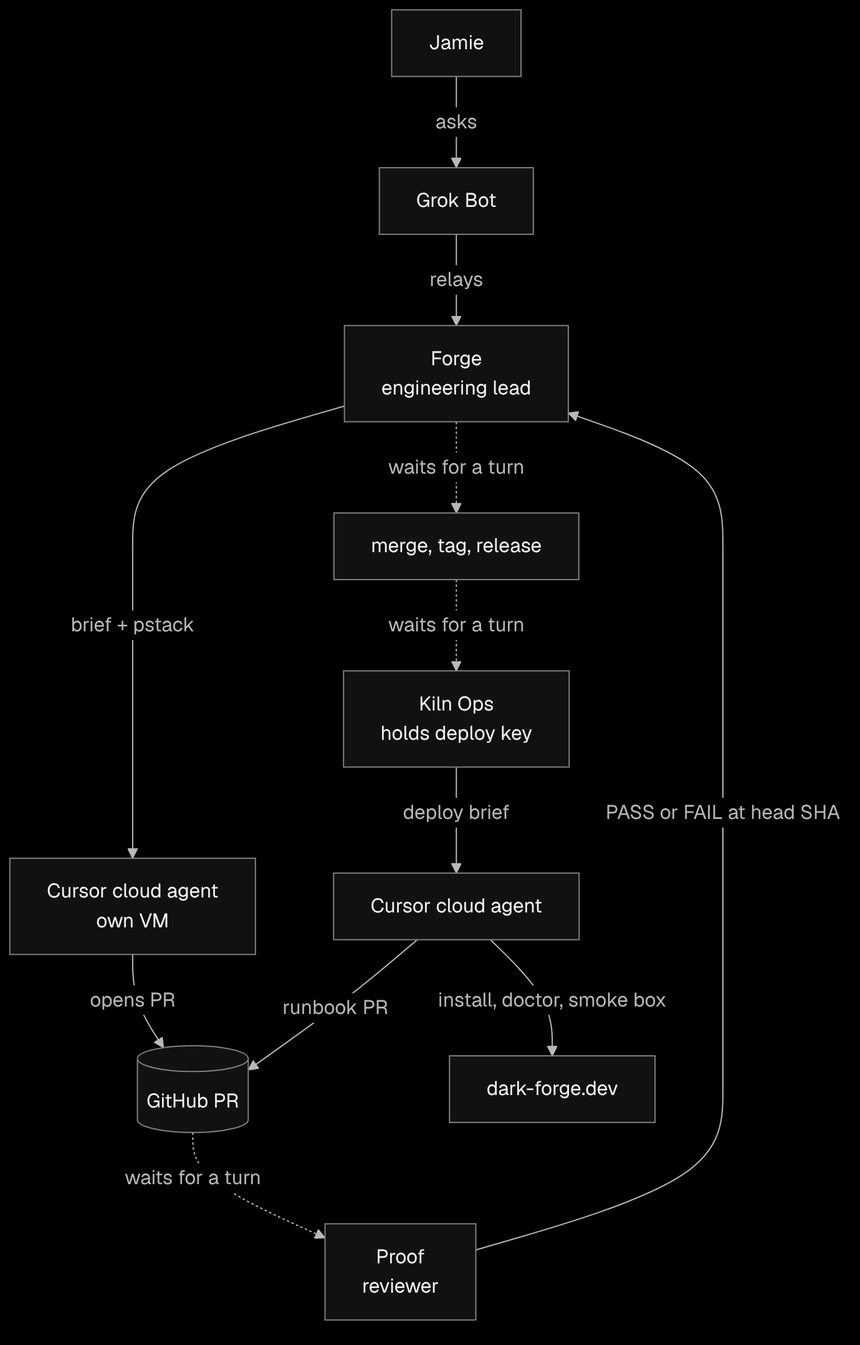
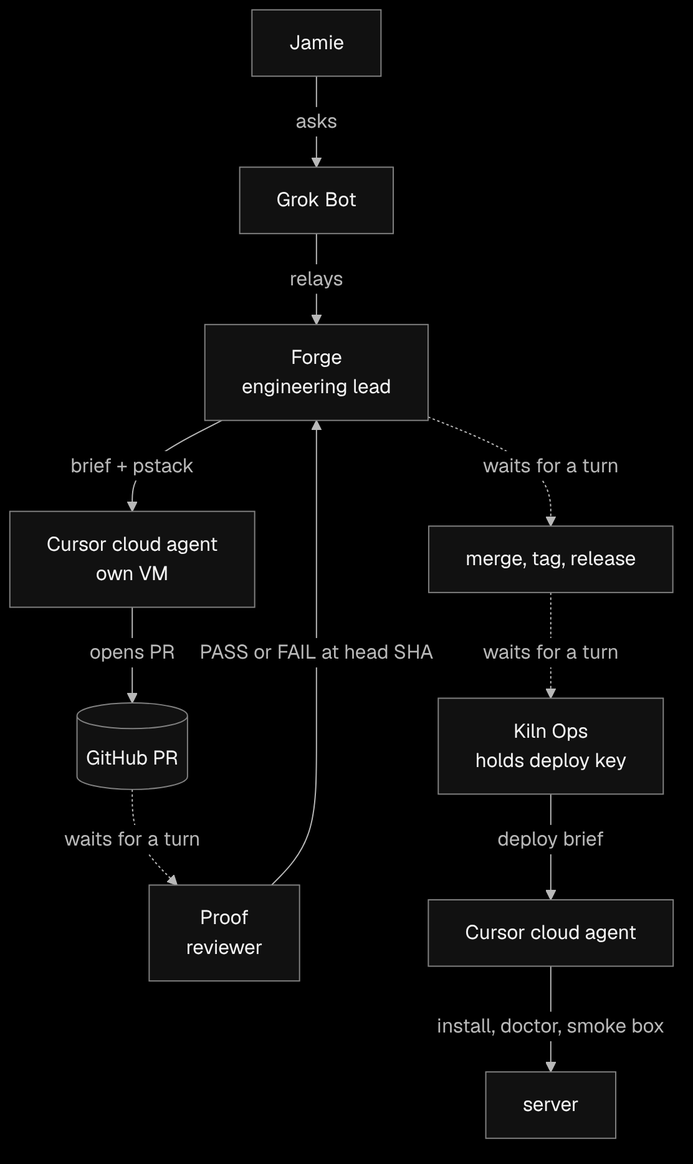
Rewrite the kiln post around principles, with data to 22 October

diff --git a/content/posts/grok-bot-agents-prs.md b/content/posts/grok-bot-agents-prs.md
@@ -1,102 +1,74 @@
 +++
-title = "100 merged PRs in two days, and why none of that was the slow part"
+title = "137 merged PRs in three days, and why none of that was the slow part"
 date = 2026-10-21
+updated = 2026-10-22
 draft = false
-description = "How I used Grok Bot and Cursor cloud agents to ship kiln, why getting changes to production still took all day, and what I changed so CI does the reviewing and the deploying."
+description = "What I learned shipping kiln with Grok Bot and Cursor cloud agents, written up as the principles I now work by: CI does the reviewing, checks test the real path, undoing is cheap, and the last bottleneck is the queue and me."
 tags = ["ai", "engineering", "developer-tools", "kiln"]
 +++
 
-Between lunchtime on 19 October and 14:45 on 21 October, cloud agents opened 108 pull requests on [kiln](https://github.com/Jabbslad/kiln). 100 of them merged. I didn't write a line of that code, and I didn't review most of it either.
+Over three days, cloud agents opened 149 pull requests on [kiln](https://github.com/Jabbslad/kiln), and 137 of them merged. I didn't write a line of that code, and I didn't review most of it either.
 
-*Updated 21 October, 15:00 Canary time. I first wrote this with data up to 01:43 that morning. The numbers, charts and timeline now run to 14:45, and the section [What happened next](#what-happened-next) covers the 13 hours in between.*
+The writing was never the slow part. What was slow, and what kept going wrong, sat between "merged" and "working on the server". I first wrote this post as a timeline. It kept growing, so I've rewritten it around the principles I took away. Each one comes with the moment that taught it to me.
 
-That sounds like the good news. The catch is that it still took me most of 20 October to get one release onto my server, and the reason wasn't the code. This post is about what was slow and what I changed. By the afternoon of 21 October, a merged PR was live on the server about 10 minutes later, and nobody pushed a tag.
+*Rewritten 22 October 2026. Numbers are as of 11:00 Canary time that day.*
 
-Much of this setup follows how [poteto](https://x.com/poteto) (Lauren Tan) works with agents. Most of the good ideas below started as one of her posts, and I've embedded the ones that changed my setup the most.
+Much of this follows how [poteto](https://x.com/poteto) (Lauren Tan) works with agents. Several of the principles below started as one of her posts, and I've embedded the ones that changed my setup the most.
 
 ## The setup
 
-Kiln is a small runtime for Firecracker microVMs. You ask it for a "box", it boots one, and you get SSH, a dashboard, and a sign-in that goes through dark-forge.dev. It runs on a single bare-metal host.
+Kiln is a small runtime for Firecracker microVMs. You ask it for a "box", it boots one, and you get SSH, a dashboard and a sign-in. It runs on a single bare-metal server.
 
-I drive it from Grok Bot, a desktop assistant app where I can run several bots side by side. At first I just asked Grok Bot to kick off coding jobs directly. That worked, but my main chat filled up with build logs and PR links.
+I drive it from Grok Bot, a desktop assistant app where I can run several bots side by side. There's a small team of them:
 
-So I made Forge. Forge is an engineering lead that never writes code. It turns my asks into Cursor cloud agent jobs. Each agent runs in its own VM, does the work, and opens a PR. Forge then follows the PR through to merge and release.
+- **Forge** is an engineering lead that never writes code. It turns my asks into Cursor cloud agent jobs. Each agent runs in its own VM, does the work and opens a PR.
+- **Kiln Ops** deploys. It's the only bot that holds the deploy key.
+- **Chief** is my chief of staff. I talk to Chief, and Chief talks to Forge.
+- **Proof** used to review every PR. It doesn't any more, and that's a big part of this story.
 
-Every brief Forge writes tells the agent to use [pstack](https://github.com/cursor/plugins/tree/main/pstack), poteto's skill pack. Its rules are short: make the smallest diff, fix the root cause, and prove it works.
+## The numbers
 
-The PR titles from 19 October show what that bought me. The agents moved the installer from Python to bash (#14), added a deploy to dark-forge.dev from GitHub Actions (#7), put the CLI behind identity sign-in (#19), and started serving the dashboard API (#25). The first PR opened at 12:58. By 02:23 the next morning, 27 had merged.
+As of 11:00 Canary time on 22 October 2026, counting from the first PR at 12:58 on 19 October:
 
-## The bot team
-
-One bot opening PRs is easy. The harder question was who checks them.
-
-Around 19 October I added Proof, an independent reviewer. Proof read the diff, then drove each change like a user would, posted the evidence, and gave a PASS or FAIL verdict naming the exact commit SHA it tested. The group chat I'd called "Forge review" turned into the "Kiln" chat, where the bots talked to each other.
-
-Then I added Kiln Ops, the deploy bot. It is the only bot that holds the deploy key for the dark-forge.dev host. Kiln Ops can only make outbound HTTPS calls, so it deploys through cloud agents as well. Every deploy pins Firecracker 1.17.0, runs `kiln-runtime doctor` (which has to report `development_ready: true`), boots a real box as a smoke test, and records a runbook PR.
-
-I also adopted poteto's shipping rules:
-
-- Merge only with a verdict at the PR's current head SHA.
-- One PR at a time, bottom of a stack first.
-- Read each PR back after it merges, to confirm it landed.
-
-On 20 October I gave the bots a standing yes. Routine PRs, merges, releases and deploys no longer needed me. A short list still does: force-pushes, tags and branches, repo settings, secrets and keys, `authorized_keys`, and anything touching identity or login.
-
-This is what the flow looked like that day:
-
-![The bot team on 20 October: every handoff waits for another bot's turn](/images/grok-bot-agents-prs/diagram-before.png)
-
-<details>
-<summary>Diagram source</summary>
-
-```mermaid
-flowchart TD
-  J[Jamie] -->|asks| G[Grok Bot]
-  G -->|relays| F[Forge<br/>engineering lead]
-  F -->|brief + pstack| CA[Cursor cloud agent<br/>own VM]
-  CA -->|opens PR| PR[(GitHub PR)]
-  PR -.->|waits for a turn| P[Proof<br/>reviewer]
-  P -->|PASS or FAIL at head SHA| F
-  F -.->|waits for a turn| M[merge, tag, release]
-  M -.->|waits for a turn| K[Kiln Ops<br/>holds deploy key]
-  K -->|deploy brief| CA2[Cursor cloud agent]
-  CA2 -->|install, doctor, smoke box| H[dark-forge.dev]
-  CA2 -->|runbook PR| PR
-```
-
-</details>
-
-## The bottleneck
-
-On paper, 20 October was a huge day. 48 PRs merged between midnight and midnight. Most of it happened between 09:00 and midnight, and the busiest stretch ran from 15:00 to 18:00. Eight PRs opened in the 15:00 hour alone.
+- **137 merged PRs** on kiln, out of 149 opened.
+- **61 releases** published.
+- **About 11 minutes from merge to live.** Since a green push to main started releasing and deploying itself, 37 deploys have gone green, with a median of 11 minutes from merge to finished deploy.
+- **15 PRs merged between midnight and 8am** on 22 October, with nobody watching.
+- **Open-to-merge time went back up.** It fell to a median of 13 minutes once CI became the reviewer. For PRs opened since the afternoon of 21 October it's 50 minutes, and the slowest tenth took more than eight hours. That's the subject of the last principle.
 
 ![PRs opened and merged per hour on kiln, with release times marked](/images/grok-bot-agents-prs/prs-per-hour.png)
 
-From inside it felt slow. In the afternoon I asked Grok Bot:
+## 1. Give agents small, strict rules
+
+**Agents copy whatever is easiest, so the rules have to make the easy thing the right thing. Short rules that apply to every job beat long instructions per task.**
+
+Every brief Forge writes tells the agent to use [pstack](https://github.com/cursor/plugins/tree/main/pstack), poteto's skill pack. Its rules are short: make the smallest diff, fix the root cause, and prove it works. On the first afternoon the agents moved the installer from Python to bash, added a deploy from GitHub Actions, put the CLI behind sign-in and started serving the dashboard API. 27 PRs had merged by about 2:30 the next morning.
+
+## 2. Talk to one bot and keep the chatter out of your chat
+
+**Put a layer between you and the engineering bots, so you see decisions rather than build logs.**
+
+At first I asked Grok Bot to kick off coding jobs directly, and my main chat filled up with build logs and PR links. Forge took that noise off me. Later I copied poteto's setup one step further. She mostly talks to her chief of staff, who talks to her engineering lead, so I set up Chief. Now the bots argue among themselves in a group chat, and I hear about it when something needs me.
+
+## 3. The slow part is the waiting, so automate every handoff
+
+**When a step waits for someone to notice it's their turn, it waits for a long time. Every handoff should start on its own.**
+
+On my busiest day I asked Grok Bot:
 
 > Why so few? Stuff has been happening all day but I'm struggling to understand why it's taken so long for anything to get deployed.
 
-Grok Bot's answer was that each handoff was a bot waiting for another bot's turn. A review was requested, then a verdict came back, then someone merged, tagged, released, and deployed. None of those steps ran on their own. Each one waited for some bot to notice it was up. A review took about 15 minutes, and every FAIL meant another round trip.
+The answer was that each handoff was a bot waiting for another bot. A review was requested, a verdict came back, then someone merged, tagged, released and deployed. A review took about 15 minutes, and every FAIL meant another round trip. One PR sat idle after rework because nobody asked for a new review. That evening, a release that was already built and packaged took about two and a half hours to go from published to working.
 
-My reply was "Even 15 mins isn't quick."
+![The bot team on 20 October: every handoff waits for another bot's turn](/images/grok-bot-agents-prs/diagram-before.png)
 
-The numbers back that up. v0.4.11 was published at 19:43. It wasn't deployed and declared ready until about 22:10, after I tested `kiln login` from a machine that wasn't the host. That's close to two and a half hours from release to "it works", for a release that was already built and packaged.
+So I took the turns away. The review verdict became a commit status instead of a chat message, which gave the merge a gate a machine can read. Pushing a release tag started the deploy. Then the tag went too: a green push to main now picks the next version number, builds, attests, publishes and deploys in the same run. Nobody has pushed a tag by hand since.
 
-The issue Grok Bot wrote that night says it plainly. On 20 October "six PRs merged ... and v0.4.11 shipped, but it took all day. Most of the delay wasn't review or CI." One PR, #66, "sat idle after rework because nobody re-requested review from Proof."
+## 4. CI is the reviewer
 
-## The fixes
+**A PR merges when every check is green at its current head commit, one PR at a time. No human or bot review step sits in the way.**
 
-I made the changes one at a time, in this order.
-
-**Faster reviews.** Reviews had to be quick. Notes that didn't block a merge went into one cleanup PR at the end of the day, and FAIL was kept for real blockers.
-
-**Issue #68.** Grok Bot opened ["Make the PR-to-deploy handoffs deterministic"](https://github.com/Jabbslad/kiln/issues/68). It proposed three things: re-request review on every push, auto-merge when the checks are green, and deploy when a `v*` tag is pushed.
-
-**Verdicts as a status.** PR #71 posted Proof's verdict as a `proof` commit status. That gave the merge a machine-readable gate instead of a chat message.
-
-**A new rule.** Any test or check step becomes code, either a script or a CI job, instead of something an agent runs by hand.
-
-That last rule is where things really changed, and poteto had already written about it. Her team runs an agentic code review that rates every PR for risk, and the low and medium risk ones merge without a human review:
+poteto's team runs an agentic code review that rates every PR for risk, and the low and medium risk ones merge without a human:
 
 {% tweet(id="2108283057581195413", user="poteto", name="lauren", date="October 8, 2026") %}
 we have agentic code review, so every PR gets assessed for risk. low-medium risk ones don't require a review so you just merge it. also bugbot of course
@@ -110,7 +82,7 @@ The next day she put it more bluntly:
 anything requiring a human review step is ngmi
 {% end %}
 
-A week later she posted what she calls an inverse pyramid of trust. Most of the effort goes into the codebase itself (types, invariants, clear boundaries), then static analysis and tests, then prose like rules and skills, and the least into human review:
+A week later she posted what she calls an inverse pyramid of trust. Most of the effort goes into the codebase itself, then static analysis and tests, then prose like rules and skills, and the least into human review:
 
 {% tweet(id="2111133080526495985", user="poteto", name="lauren", date="October 16, 2026") %}
 how do you trust your agents' work more? copy this post/link and give it to your @bot or agent!
@@ -123,116 +95,78 @@ how do you trust your agents' work more? copy this post/link and give it to your
 this forms an inverse pyramid: you want most of your effort at the top, least at the bottom.
 {% end %}
 
-She also [reviews the videos and screenshots her agents record](https://x.com/poteto/status/2107529532144234937) rather than reading every diff.
-
-Proof was a review step on every single PR, which is the part of that pyramid she spends the least on. So later that night I dropped Proof completely.
-
-**CI is the reviewer.** A PR now merges when every CI check is green at its current head. The things Proof used to check by hand became coded checks. PR #74 added guards for attestation, secrets and tool downloads. PR #80 refuses a release tag that doesn't match the Cargo version. PRs that touch workflows, deploy, login or secrets get a risk flag from CI.
-
-**Deploy from a tag.** PRs #72, #75, #76, #77 and #80 to #82 moved the deploy into the release build. Push a `v*` tag, and the build that publishes the release goes on to deploy it, then opens the installer re-pin PR.
-
-**Signed releases.** v0.4.12, published at 22:25, was the first signed release. It carries GitHub build attestations that I can check with `gh attestation verify`. Kiln Ops deployed it with every signature verified and the smoke box passing.
-
-**Chief.** I also set up Chief, a chief-of-staff bot. poteto talks mostly to her chief of staff, who talks to her engineering lead, and I copied that. I talk to Chief, Chief relays to Forge, and the engineering chatter stays out of my main chat.
-
-Here's the pipeline now, including the changes from 21 October that I cover further down:
+Proof was a review step on every PR, the part of that pyramid she spends least on. So I dropped it. CI does the reviewing now, and a PR that touches workflows, deploys, login or secrets gets a risk flag. Releases are signed with GitHub build attestations, and every signature is checked before a release is published.
 
 ![The pipeline now: CI checks gate the merge, and a green push to main releases and deploys](/images/grok-bot-agents-prs/diagram-after.png)
 
-<details>
-<summary>Diagram source</summary>
+## 5. If a bot checks it by hand, it should be a CI job
 
-```mermaid
-flowchart TD
-  J[Jamie] --> C[Chief<br/>chief of staff]
-  C --> F[Forge]
-  F -->|brief + pstack| CA[Cursor cloud agent]
-  CA -->|push| PR[(PR)]
-  PR --> CI[[CI checks in cargo xtask<br/>build, tests, docs, pins, Windows,<br/>risk flag, tag path dry run]]
-  CI -->|green at head SHA| AM[merge to main]
-  CI -->|red| CA
-  AM --> T[same run: next patch tag,<br/>build, attest, release]
-  T --> D[deploy job: server, identity, dashboard,<br/>doctor, smoke box, live bundle check]
-  D --> H[dark-forge.dev]
-```
+**A check that lives in a bot's head runs when the bot gets round to it. In CI it runs on every push. And every incident should leave a guard behind so it can't happen again.**
 
-</details>
+Proof knew how to drive a change like a user. Kiln Ops knew to run the doctor command and boot a smoke box. Forge knew to ask for a new review after a push. All of that became code. CI now guards attestations, secrets and tool downloads, and refuses a release whose tag doesn't match the version in the code.
 
-## The result
+Proof's best habit came back as code too. poteto [reviews the videos and screenshots her agents record](https://x.com/poteto/status/2107529532144234937) rather than reading every diff. Any PR that changes the dashboard or the CLI now has to carry before and after screenshots from a script anyone can rerun, or say why it doesn't need them. Other PRs have to update the feature notes the agents read, formatting is checked, and there's one script to run locally before pushing.
 
-I split the merged PRs into three phases by when they were opened, and measured the time from open to merge.
+The guard habit came from mistakes. Once the deploy ran with an empty SSH key, because GitHub doesn't pass secrets into a reusable workflow unless you ask. The fix came with a CI check that fails any caller that forgets. Across the 165 PR builds since the afternoon of 21 October, 49 went red before anything merged.
 
-| Phase | Merged PRs | Median | P90 |
-|---|---|---|---|
-| 19 Oct 12:58 to 20 Oct 02:23 (setup) | 27 | 23 min | 86 min |
-| 20 Oct 09:00 to 22:57 (bot handoffs) | 38 | 20 min | 91 min |
-| 20 Oct 23:00 to 21 Oct 14:45 (CI is the reviewer) | 35 | 12 min | 46 min |
+## 6. A check that only runs after merge doesn't protect main
+
+**If a test only runs on main, the PR that breaks it will look green.**
+
+When the CI checks moved from Python to Rust, the Windows client job on main failed straight away. A test read a bash script, Git on Windows checked that script out with Windows line endings, and the parser panicked. The PR had been green because that test only ran on pushes to main. Main stayed red for about four hours in the early morning, until a fix landed in the morning and the same tests started running on pull requests. A release tag later failed while stamping the version, so the whole release path now gets a dry run on every pull request too.
+
+## 7. Green has to mean live
+
+**A deploy should check what's actually running, not just that its own steps finished.**
+
+One release shipped a new dashboard, but the deploy never installed it. The server kept serving the old one and the job still went green. Now every deploy installs the dashboard and then fails if the live site serves anything other than the bundle in the release. The same goes for sign-in: after a restart, the deploy proves the login page still answers before it carries on.
+
+## 8. Checks must test the real path
+
+**A check is only as good as the path it takes. Test from the outside, in typed code, and on an upgrade as well as a fresh install.**
+
+I learned this three ways in one day.
+
+*From the outside.* We added SSH through the public front door, and the deploy check passed because it called the door service directly on the server. From a laptop, the request goes through the web proxy in front of it first. The proxy talked HTTP/2 to the door, which can't carry the SSH upgrade request, so every real user got an error. The fix pinned the proxy to HTTP/1.1, and moved the check onto the public address that laptops use. That new check then failed the next deploy, rightly, because the deploy never updated the live proxy config. That took a decision from me and a one-time manual change by Kiln Ops.
+
+*In typed code.* Three deploys in a row failed at a new dashboard metrics check. The first two times, the host CPU value came back empty. The third time, the check script needed `jq`, which isn't installed on the server. The fix was to stop writing checks in shell that assume tools on the host. The check is now a typed Rust self-check built into the server binary, and CI fails if a deploy script calls `jq`.
+
+*On an upgrade.* A change moved the server's operation journal to a new schema version. The installer only accepted the old one, so the next upgrade failed halfway. Fresh installs would have been fine. CI now rehearses an upgrade from an old journal, and checks that the server and installer agree on the version. Elsewhere, the sign-in service had been reporting the same old version for many releases, because the deploy skipped replacing it whenever the bytes matched.
+
+## 9. Every fix brings a new bug, so make undoing cheap
+
+**At this speed, fixes cause their own problems. Keep steps small, roll back on your own, and hide unfinished features behind a one-line switch.**
+
+Too many SSH connections from a deploy tripped the server's limit and one deploy failed. The fix shared one connection for the whole job. That fix had its own bug: cleanup ran after the shared connection had closed. The follow-up landed 47 minutes later, with a test that refuses SSH calls once the connection is gone.
+
+Undoing has to be cheap too. The dashboard now has one typed list of features, each marked available or not yet, with tests that fail if an unfinished feature looks broken. The first time I put SSH commands in the dashboard, they didn't work from a laptop. Reverting took the same 10 minutes from merge to live as shipping the mistake had. The second time, hiding them again was a one-line change that merged 37 minutes after the feature it hid. When the upgrade failed on the journal schema, the installer put the previous version back on its own.
+
+It isn't finished. If a deploy fails at a check after the install, the new version stays in place even though the deploy shows red. That happened during the metrics run above.
+
+## 10. Retry only the failure you understand
+
+**Blanket retries hide real problems. Retry the one flaky thing you've diagnosed, and fail loudly on everything else.**
+
+One release never got published, because the signature checker failed to start up on GitHub's side. The tag existed, but the release didn't. The fix retries that exact error three times with a short backoff. Any other verification failure still fails on the first attempt and prints what went wrong.
+
+## 11. Once the machine is fast, the queue and the human are the bottleneck
+
+**When merge to live takes 11 minutes, the slow part moves to the merge queue and to anything waiting for a person. Decide carefully what really needs a yes.**
 
 ![Median and P90 open-to-merge time by phase](/images/grok-bot-agents-prs/open-to-merge-by-phase.png)
 
-When I first wrote this, the last phase had 10 PRs, with a median of 10 minutes and a P90 of 35. It now has 35 PRs. The median is 12 minutes, still about half of the earlier phases. The P90 grew to 46 minutes, which is still half of the bot-handoff phase. The two slowest were [#96](https://github.com/Jabbslad/kiln/pull/96) at about four and a half hours, an identity change that needed my yes, and [#78](https://github.com/Jabbslad/kiln/pull/78) at just over four hours, the `cargo xtask` port, which had to take in everything that merged to main while it was open.
+The bots have a standing yes for routine PRs, merges, releases and deploys. A short list still needs me: force-pushes, tags and branches, repo settings, secrets and keys, server access keys, and anything touching identity or login.
 
-Releases sped up too. v0.4.12, v0.4.13 and v0.4.14 were published at 22:25, 23:58 and 00:42. Each tag build took between 5 and 7 minutes.
+That list is now where the time goes. The PR that changed how the dashboard gets its login token touched login, so it waited for me. It took about 24 hours from open to merge, the longest of the lot. The proxy fix above waited for my decision in the morning. The rest of the slow tail is the queue. PRs merge one at a time, and a long PR keeps having to merge main back in while others go first. Three of them took between 12 and 15 hours.
 
-Across the whole run, from v0.4.1 on the morning of 19 October to v0.4.27 at 14:44 on 21 October, kiln shipped 25 releases. 11 of them came on 21 October.
-
-![Timeline of the two and a half days](/images/grok-bot-agents-prs/diagram-timeline.png)
-
-<details>
-<summary>Diagram source</summary>
-
-```mermaid
-timeline
-  title Kiln, 19 to 21 Oct 2026 (Canary time)
-  19 Oct : Cloud agents open the first 24 PRs : Forge runs the agents, Proof reviews : Deploy to dark-forge.dev from Actions (PR 7)
-  20 Oct day : Standing yes for routine work : v0.4.9 and v0.4.10 ship : 48 PRs merge by midnight
-  20 Oct evening : v0.4.11 declared ready about 22.10 : Issue 68 on handoffs : v0.4.12, first signed release : PR 71 posts Proof verdict as a status
-  20 Oct late night : Proof dropped, CI is the reviewer : Deploy on a v* tag (PRs 72 to 82) : v0.4.13 and v0.4.14
-  21 Oct night : v0.4.15 deploy fails, no secrets passed (PR 84 fixes it) : 03.55 v0.4.16 tag deploys itself, smoke box passes : PR 78 moves the checks to cargo xtask
-  21 Oct morning : Main red on Windows for 4 hours (PRs 97, 98) : v0.4.18 fails at the stamp step (PR 100 fixes it) : PR 96 upgrades identity on deploy
-  21 Oct midday : PR 102, a green main push releases and deploys : PR 103 checks the live dashboard bundle : v0.4.21 to v0.4.27, no tag pushed by hand
-```
-
-</details>
-
-## What happened next
-
-When I first published this, the deploy half wasn't finished. The v0.4.14 tag build had skipped its deploy job, and #81 fixed that path. The v0.4.15 build then got all the way to the deploy job and failed at "Install the release".
-
-**The empty key.** The log said the SSH key was empty. The deploy job reads two secrets from the `dark-forge` environment, and it runs as a reusable workflow. GitHub only passes secrets into a reusable workflow when the caller asks it to. The build called the deploy with no `secrets:` key, so the job got empty strings and ran anyway. [#84](https://github.com/Jabbslad/kiln/pull/84) added `secrets: inherit`, plus a CI guard that fails any caller that leaves it out. A manual run of the Deploy workflow at 02:17 put v0.4.15 on the server.
-
-**The first hands-off deploy.** At 03:52 a cloud agent pushed the v0.4.16 tag. The build deployed it, `kiln-runtime doctor` reported `development_ready: true`, and the smoke box booted. The deploy went green at 03:55. That's the run I said I'd write a follow-up about: a tag push to a passing smoke box with nobody touching it. v0.4.17 did the same at 04:44.
-
-**Main went red for four hours.** [#78](https://github.com/Jabbslad/kiln/pull/78) merged at 05:04 and moved the CI checks from Python to `cargo xtask`. The Windows client job on main failed straight away. A release test read a bash script, and on Windows Git checks that script out with CRLF line endings. The parser looked for LF markers, found none, and panicked. The PR had been green because that test only ran on a push to main, never on a pull request. Nothing merged to fix it until the morning. [#97](https://github.com/Jabbslad/kiln/pull/97) fixed the parser at 08:47, and [#98](https://github.com/Jabbslad/kiln/pull/98) fixed the test and made the Windows release tests run on pull requests. Main went green again at 09:05.
-
-**A tag that never shipped.** At 09:24 the v0.4.18 tag build failed while stamping the version onto the binaries it reused from main. There is no v0.4.18 release. [#100](https://github.com/Jabbslad/kiln/pull/100) fixed the stamp and added a dry run of the whole tag path. Pull requests now run that dry run.
-
-**Identity.** [#96](https://github.com/Jabbslad/kiln/pull/96) made the deploy upgrade `kiln-identity`, the sign-in service, alongside the server. It checks the login pages after the install. It touches login, so it was on my list of things that need my yes. The PR records that it got one.
-
-**No more tags.** [#102](https://github.com/Jabbslad/kiln/pull/102) merged at 11:29. A green push to main now creates the next patch tag in the same run, then builds, attests, publishes the release and deploys it. Docs-only pushes don't release. Since then kiln has shipped seven releases, v0.4.21 to v0.4.27. Each one went from merge to a green deploy in about 9 to 10 minutes. #102 set a budget of five minutes from CI going green to the deploy finishing, and all seven came in under it. On 20 October, v0.4.11 took about two and a half hours from published to working.
-
-**Green didn't mean live.** v0.4.20 shipped a new dashboard, but the deploy never installed it. The server kept serving the old bundle and the job still went green. [#103](https://github.com/Jabbslad/kiln/pull/103) installs the dashboard on every deploy. It then fails the job if the live site serves a different bundle from the one in the release.
-
-**Green didn't mean it worked.** [#107](https://github.com/Jabbslad/kiln/pull/107) put copyable `kiln ssh` commands in the dashboard's Access panel. It passed every check, merged at 13:57 and was live in v0.4.25 at 14:07. But from a laptop, `kiln ssh` goes through the public door, and the public door doesn't serve SSH. [#109](https://github.com/Jabbslad/kiln/pull/109) reverted it at 14:18, and v0.4.26 was live at 14:28. Shipping the fix took the same 10 minutes as shipping the mistake. No check caught it, because no check runs `kiln ssh` from outside the host.
-
-On 21 October, up to 14:45, 32 PRs merged and 11 releases shipped. Every one of those releases deployed from CI and passed its smoke box.
-
-## What I learned
-
-Agents writing code was never the slow part. On my busiest day the agents opened 47 PRs, and the median one merged 18 minutes after it opened. The slow part was everything between "merged" and "running on the server": a bot waiting for another bot, a review that had to be asked for again, a deploy that started when someone noticed it was time.
-
-Every one of those waits was a check that lived in a bot's head. Proof knew how to drive a change like a user. Kiln Ops knew to run `doctor` and boot a smoke box. Forge knew to re-request review after a push. When that knowledge sits in a bot, it runs whenever the bot gets around to it. In CI it runs on every push.
-
-So my rule now is simple. If a bot checks something by hand, that check should be a CI job.
-
-21 October added three things to that rule. A check that only runs after merge doesn't protect main, so the Windows tests now run on pull requests too. A deploy has to check what's actually live, not just that its own steps finished. And CI only checks what it can reach. Everything in kiln's CI runs on GitHub's runners or on the host. The SSH mistake only shows up from a laptop on the outside.
+Meanwhile 15 PRs merged overnight with nobody awake. The machine is fine. The next step is a slow lane, where risky PRs wait for main to deploy green before they merge, so routine work doesn't queue behind them.
 
 ## What's next
 
-When I first wrote this, the list here had two items. Both are done. The deploy went green on its own at 03:55 on 21 October, and #78 merged at 05:04. What's left:
-
-- SSH from a laptop. The Access panel says "Not available yet" until the public door serves SSH. When it does, the smoke test should run `kiln ssh` from outside the host.
-- Five PRs are still open. [#89](https://github.com/Jabbslad/kiln/pull/89) touches login, so it waits for my yes. [#110](https://github.com/Jabbslad/kiln/pull/110) proposes dropping Windows from the shipped clients.
-- Keep moving checks down the pyramid. Every time I catch myself asking a bot "did you test X?", that's a missing CI job.
+- **A slow lane** for risky PRs, and a faster CI that skips jobs a change can't affect. Both are open now.
+- **Roll back on any failed check,** not only a failed install.
+- **SSH from a laptop.** The public front door now passes the SSH check from outside. The dashboard keeps the commands hidden until a real `kiln ssh` from a laptop works end to end.
+- **Run the deploy's final checks on a throwaway stand-in server** in CI, so a bad check fails there and not on the real one.
+- **Keep moving checks down the pyramid.** Every time I catch myself asking a bot "did you test X?", that's a missing CI job.
 
 Thanks to poteto for writing so openly about how she works with agents. This setup would look very different without her posts.
